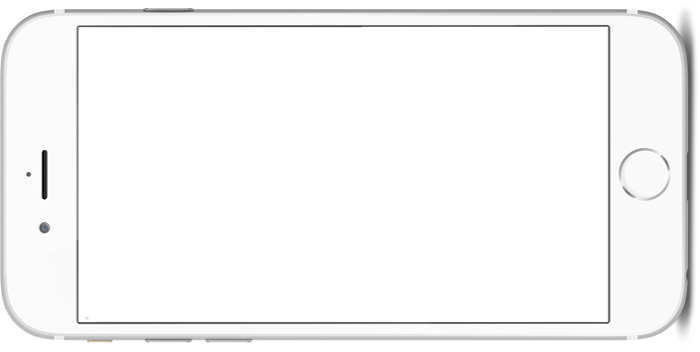
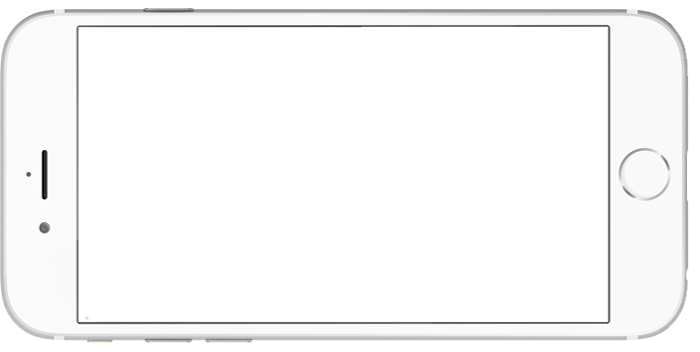
Screenshots added, slider set to landscape

Changed region(s): [[0.96, 0.0312, 1.0, 0.9375]]

diff --git a/css/style.css b/css/style.css
@@ -2285,11 +2285,11 @@ a.store:last-child {
 }
 
 #screens-1 .screenshots-wrap {
-    margin-top: 78px;
+    margin-top: -9px;
 }
 
 .slick-slide {
-  width: 298px;
+  width: 529px;
 }
 
 .carousel-item {
@@ -2323,14 +2323,15 @@ a.store:last-child {
 
 .iphone-frame {
   position: absolute;
-  top: -79px;
+  top: -27px;
+  left: 6px;
   width: 100%;
   height: 100%;
   z-index: 2;
 }
 
 .iphone-frame img {
-  max-width: 350px;
+  max-width: 700px;
   margin: 0 auto;
   display: block;
 }
